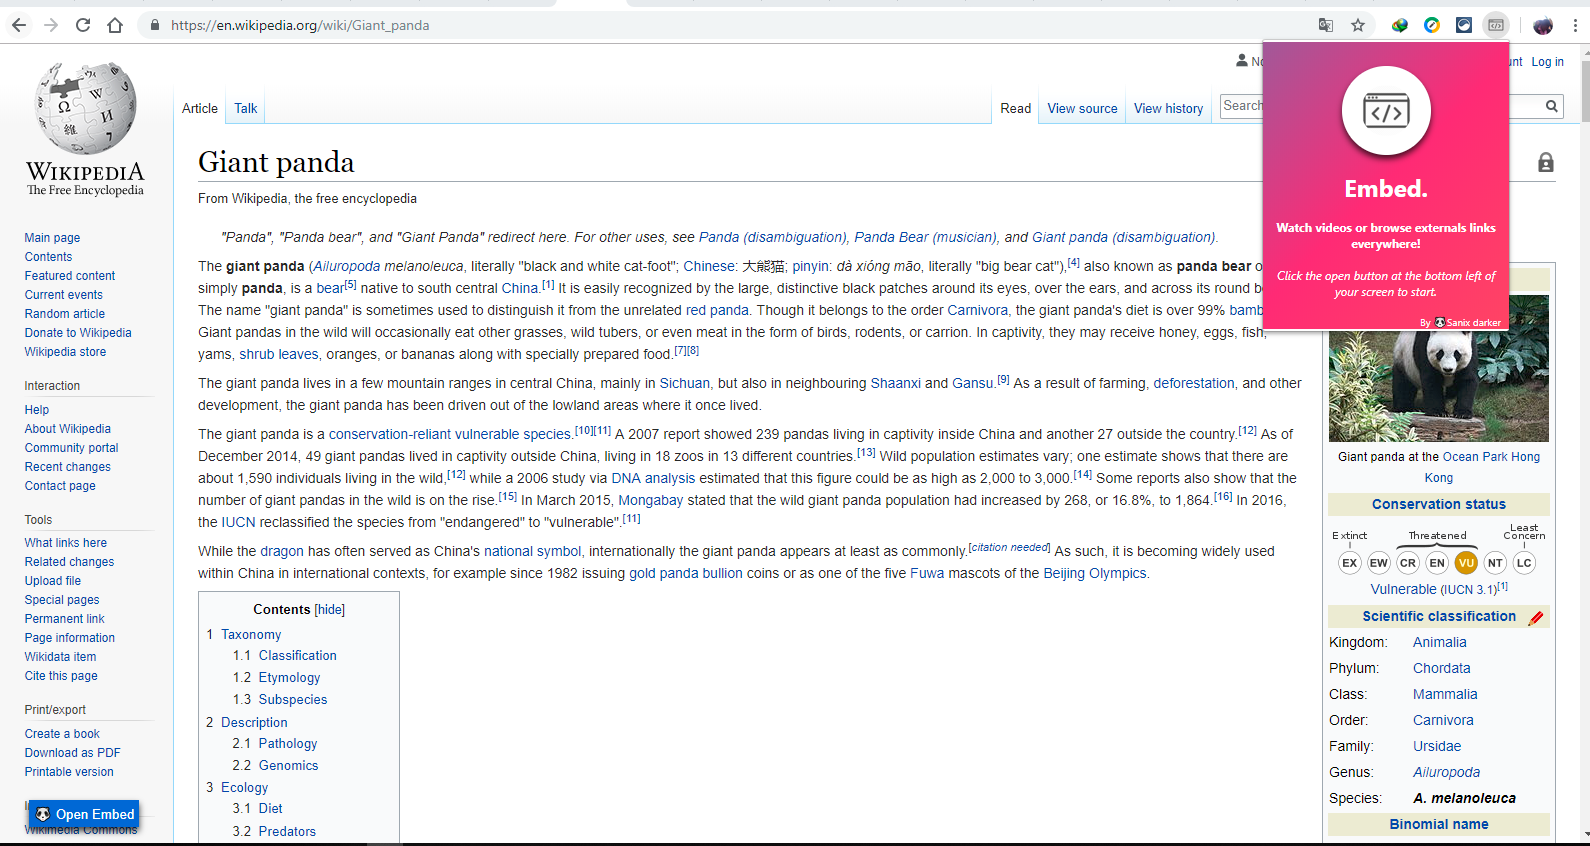
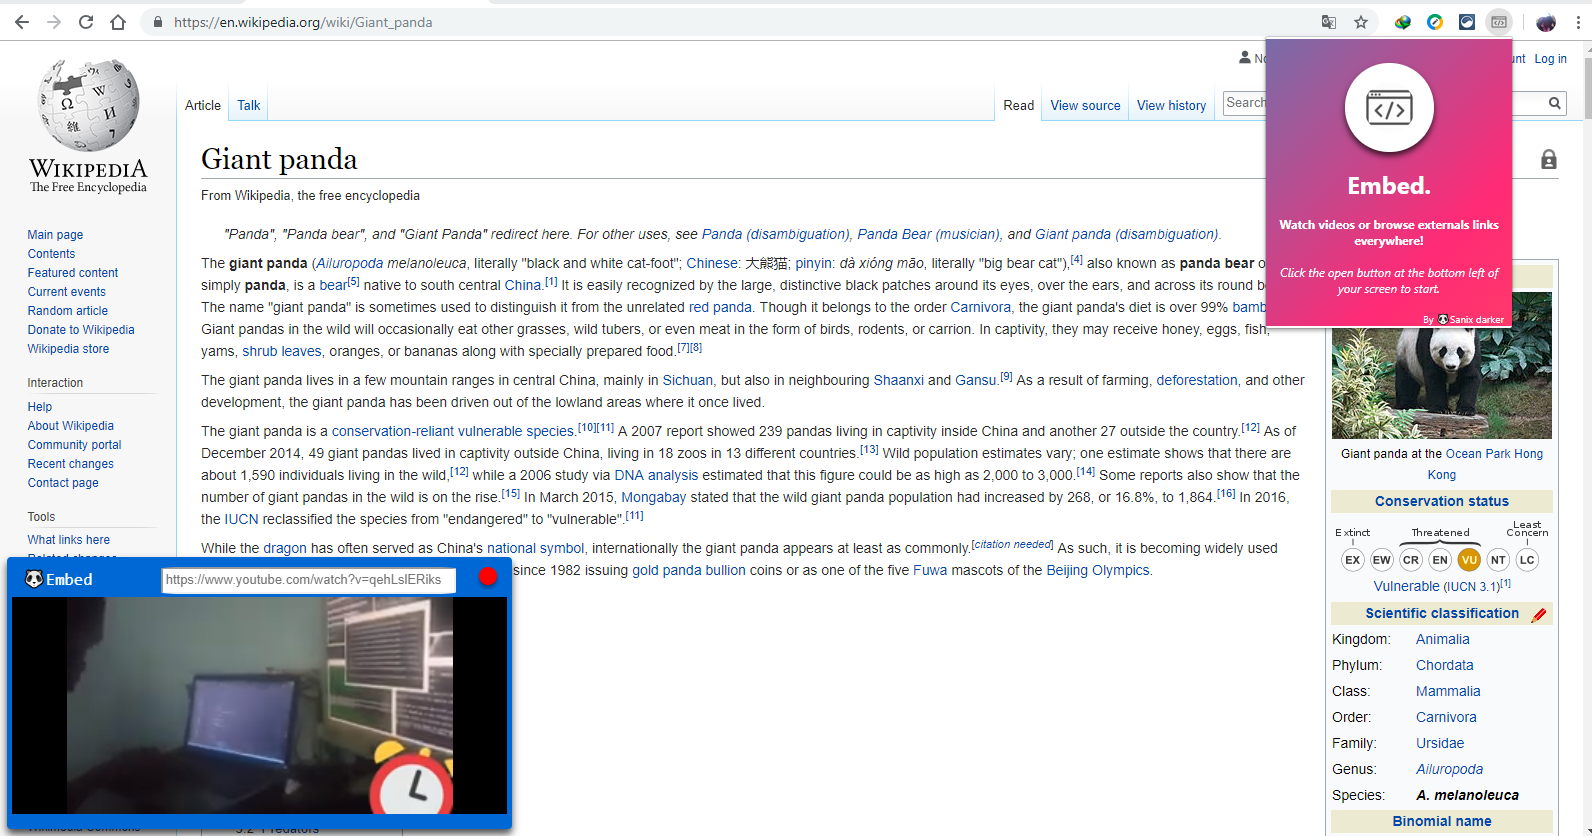
[2]Updates README!

Changed region(s): [[0.0, 0.0, 1.0, 1.0], [0.9553, 0.1866, 0.9862, 0.2177]]

diff --git a/README.md b/README.md
@@ -1,7 +1,8 @@
 <img src="logo.PNG" />
+
 # Embed.
 
-A Browser Extension allowing you to watch videos or browse externals links everywhere!
+A Browser Extension allowing you to watch videos or browse externals links everywhere in your browser!
 
 ### Introduction
 I do not know if this is a whim or a need that haunts me, because I know I'm not alone sometimes in this situation! Having several tabs open on my browser including youtube for example, it gives me to have to change tabs to have a scene or to pause on a video that is in progress, not just the videos but who never wanted to be both on wikkipedia and see a video on youtube at the same time? And why stop there? Browse other sites or search directly in the same place!
@@ -31,6 +32,9 @@ I do not know if this is a whim or a need that haunts me, because I know I'm not
 * Get a link or a text you want to search, paste it in the link input.
 * Press Enter and "Embed" will handle all.
 
+### Rendering
+
+<img src="render1.PNG" />
 
 ### Author
 
